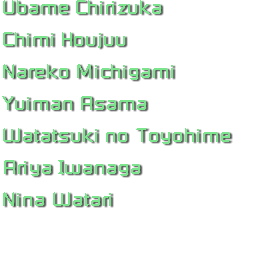
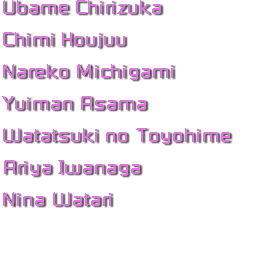
th15 color to th20 boss names

diff --git a/BossDisplayFixes/files.js b/BossDisplayFixes/files.js
@@ -817,7 +817,7 @@
 	"th20/ascii/ascii_1280.png": 3546746933,
 	"th20/ascii/ascii_960.png": 2231270556,
 	"th20/default.ecl": 4136348473,
-	"th20/front/ename.png": 1187934677,
+	"th20/front/ename.png": 1070953056,
 	"th20/front/front00.png": 2082469526,
 	"th20/st03bs.ecl": 3216198,
 	"th20/st04bs.ecl": 1123437683,
